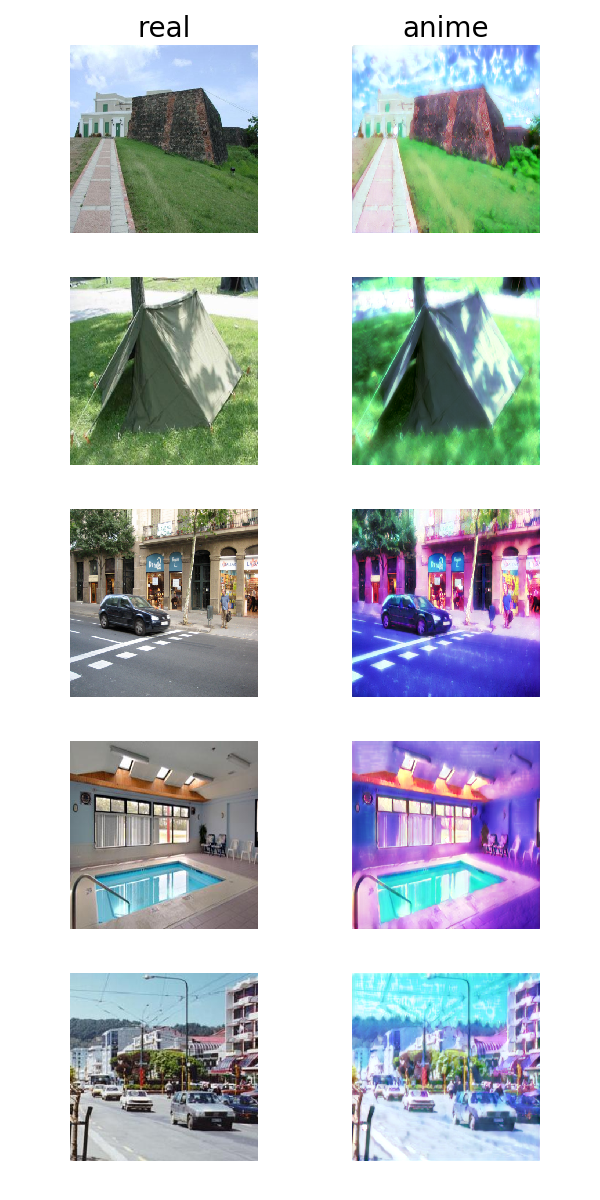
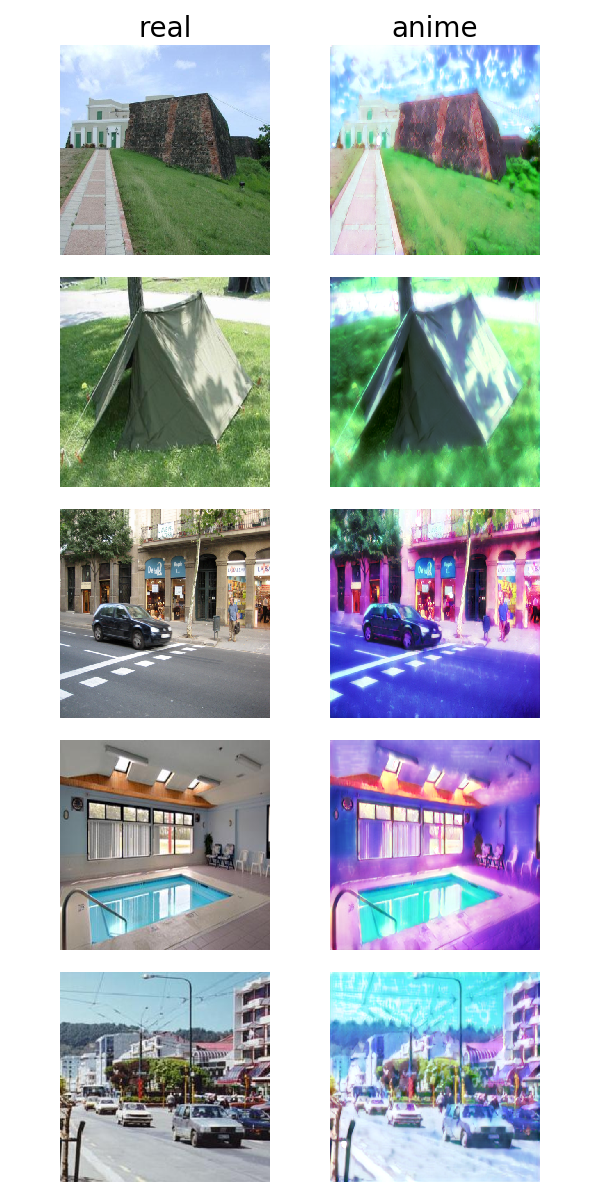
smaller gaps between images

diff --git a/compile_images_for_readme.py b/compile_images_for_readme.py
@@ -13,19 +13,16 @@ if __name__ == '__main__':
 
     fig = plt.figure(figsize=(6, 12))
     for i, (path_from, path_to) in enumerate(image_pairs.items()):
-        img_from = Image.open(path_from)
-        img_to = Image.open(path_to)
-        ax = fig.add_subplot(len(image_pairs), 2, 2*i+1)
-        ax.imshow(img_from)
-        ax.axis('off')
-        if i == 0:
-            ax.set_title('real', {'fontsize': 20})
-
-        ax = fig.add_subplot(len(image_pairs), 2, 2*i+2)
-        ax.imshow(img_to)
-        ax.axis('off')
-        if i == 0:
-            ax.set_title('anime', {'fontsize': 20})
+        for j, (path, label) in enumerate(zip([path_from, path_to], ['real', 'anime'])):
+            img = Image.open(path)
+            ax = fig.add_subplot(len(image_pairs), 2, 2*i+j+1)
+            ax.imshow(img)
+            ax.axis('off')
+            ax.set_xticklabels([])
+            ax.set_yticklabels([])
+            ax.set_aspect('equal')
+            if i == 0:
+                ax.set_title(label, {'fontsize': 20})
 
     plt.tight_layout()
     plt.savefig('images.png')
